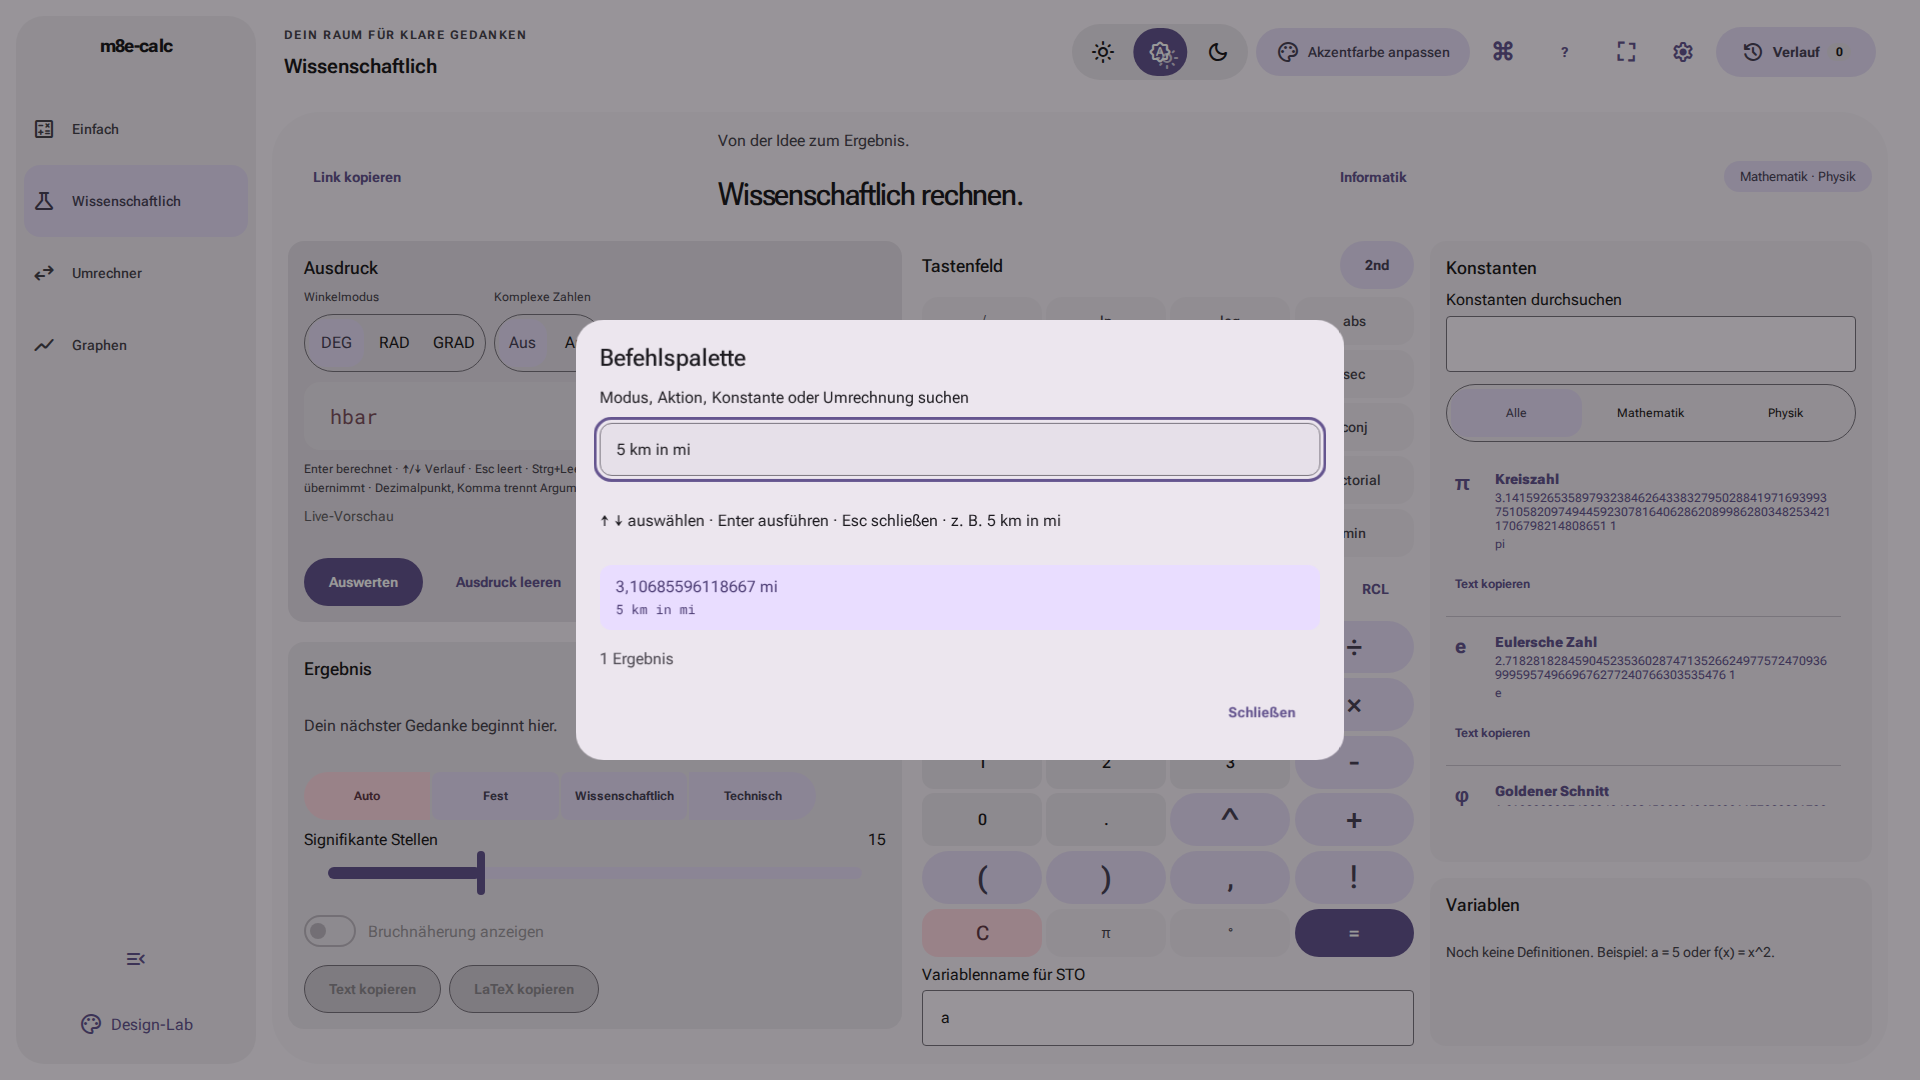
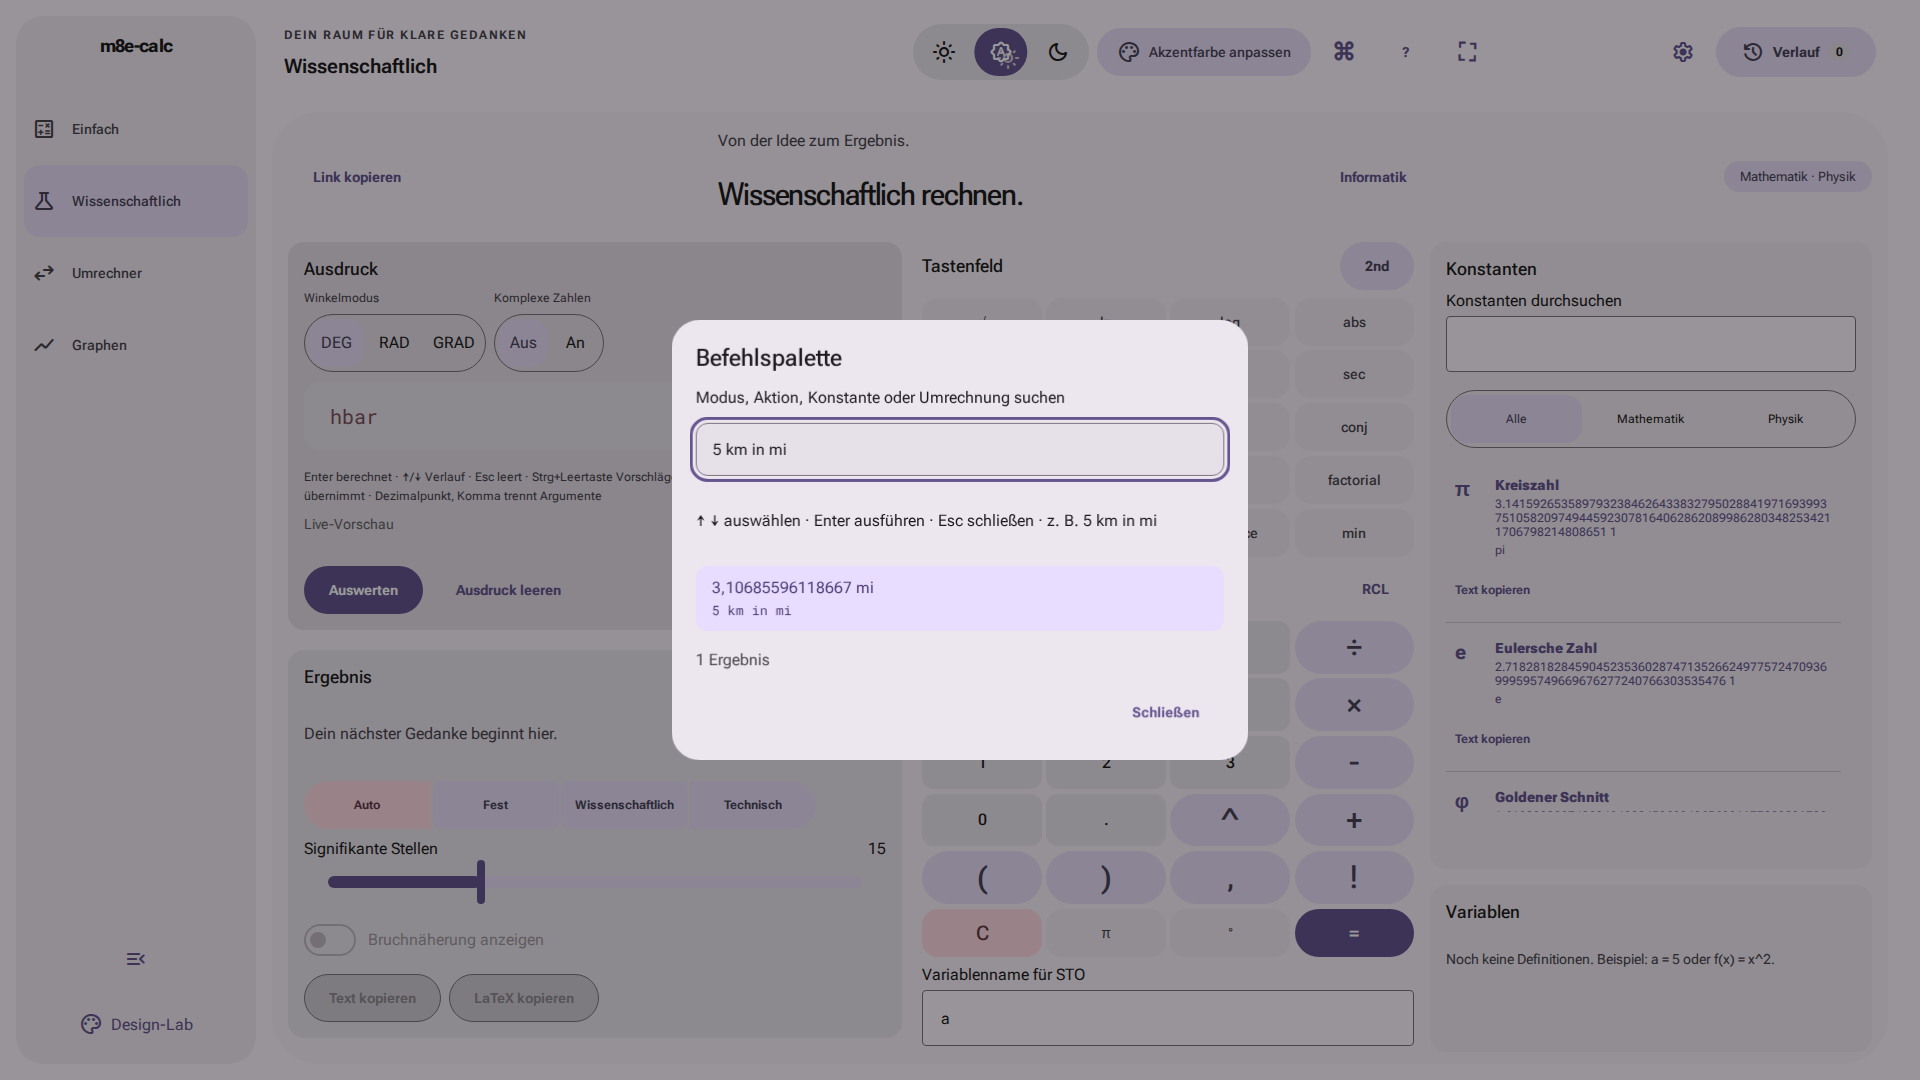
docs(release): refresh linked documentation images and record bot restrictions

diff --git a/docs/RELEASE.md b/docs/RELEASE.md
@@ -26,8 +26,7 @@ Ausgaben in `docs/img/`:
 
 Die Bilder vor dem Commit visuell prüfen. Sie sind Dokumentationsbilder;
 die unabhängigen visuellen QA-Referenzen unter `e2e/` werden nicht ersetzt.
-Historische AP-Screenshots unter `docs/screenshots/` bleiben Belege ihrer
-jeweiligen damaligen Prüfstände. Aktuelle Produktansichten stehen im README.
+Aktuelle Produktansichten stehen im README sowie den Architektur-/Modus-Dokumenten. Die verlinkten Komfortaufnahmen unter `docs/screenshots/` stammen aus Hardening-CI `38593558518` auf dem seither unveränderten Produktcode; unverlinkte ältere AP-Bilder bleiben historische Belege.
 Die CI erzeugt Release-Bilder als separates Artefakt zur Reproduktion.
 
 ## Vor Veröffentlichung
@@ -50,4 +49,4 @@ bereits erfolgte Veröffentlichung. AP16 bleibt bis zur Abnahme offen.
 
 `node scripts/check-release-docs.mjs` prüft lokale Markdown-Verweise und alle dokumentierten `npm run`-Befehle gegen package.json. Mit `--external` werden zusätzlich externe Markdown-Links per GET geprüft (30 s Timeout je URL, Redirect-Ziel im Log). Die Release-Assets-CI führt diese externe Prüfung aus. Ein HTTP-200 allein beweist nicht, dass ein weitergeleitetes Dokument noch denselben Inhalt hat; Quellenänderungen werden zusätzlich redaktionell geprüft.
 
-Beim Linkabgleich am 14.10.2026 wurden der verschobene NIST-Handbook-Link, die IAU-2015-PDF und die NASA-SP-367-Weiterleitung ersetzt. Die FDA-Quelle verweist jetzt auf den offiziellen HHS-Katalogeintrag, weil FDA den CI-Client auf eine Missbrauchserkennungsseite umleitete. Der ISO-2533-Katalogeintrag wurde unabhängig über die offizielle ISO-Seite bestätigt; dort erhält der CI-Client HTTP 403. Nur diese exakt dokumentierte URL/Status-Kombination ist im Prüfer als manuell verifiziert markiert, nicht als erfolgreicher HTTP-Test. Die Live-URL lieferte HTTP 200; das ersetzt keine vollständige manuelle Pages-Abnahme.
+Beim Linkabgleich am 14.10.2026 wurden der verschobene NIST-Handbook-Link, die IAU-2015-PDF und die NASA-SP-367-Weiterleitung ersetzt. Die FDA-Quelle verweist jetzt auf den offiziellen HHS-Katalogeintrag, weil FDA den CI-Client auf eine Missbrauchserkennungsseite umleitete. Der ISO-2533-Katalogeintrag wurde unabhängig über die offizielle ISO-Seite bestätigt; dort erhält der CI-Client HTTP 403. Auch der HHS-Katalogeintrag wurde unabhängig auf der offiziellen Seite bestätigt und beantwortet den CI-Client mit HTTP 403. Nur diese beiden exakt dokumentierten URL/Status-Kombinationen sind im Prüfer als manuell verifiziert markiert, nicht als erfolgreiche HTTP-Tests. Die Live-URL lieferte HTTP 200; das ersetzt keine vollständige manuelle Pages-Abnahme.

diff --git a/docs/ARCHITECTURE.md b/docs/ARCHITECTURE.md
@@ -72,7 +72,7 @@ Wöchentliche Dependabot-Updates werden getrennt für npm und GitHub Actions gru
 
 ## AP4-Verifikation
 
-Die Shell-Browserprüfungen warten auf den aktiven Modus, vollständige Opacity und die Zielbreite des angedockten Panels. Neben Dokument- und Container-Überläufen werden Panel-Grenzen im Viewport geprüft. Reproduzierbare Referenzaufnahmen: [Full HD](screenshots/app-shell-1920.png), [QHD](screenshots/app-shell-2560.png), [4K](screenshots/app-shell-3840.png) und [Ultrawide](screenshots/app-shell-3440.png). `e2e/app-shell.spec.ts` erzeugt sie erneut; CI bewahrt zusätzliche Browser-/Galerie-Artefakte auf.
+Die Shell-Browserprüfungen warten auf den aktiven Modus, vollständige Opacity und die Zielbreite des angedockten Panels. Neben Dokument- und Container-Überläufen werden Panel-Grenzen im Viewport geprüft. Aktuelle Shell-/Modusansichten bei 2560×1440: [Hell](img/simple-light.png) und [Dunkel](img/simple-dark.png), reproduzierbar mit `npm run screenshots`. `e2e/app-shell.spec.ts` prüft zusätzlich Full HD, 4K und Ultrawide; CI bewahrt die jeweiligen Browser-/Galerie-Artefakte auf.
 
 Die axe-Prüfung des Einstellungsdialogs wartet auf das Ende seiner Einblendung
 (`data-entering` entfernt) und prüft anschließend den vollständigen Textkontrast.
@@ -106,10 +106,8 @@ Verlauf unverändert. Tastaturbefehle ruhen in Formularen, Overlays und inerten
 Modusflächen. Browserprüfungen erzeugen vier Ansichten in `test-results`:
 1920×1080 und 3840×2160, jeweils Hell/Dunkel.
 
-Geprüfte Referenzaufnahmen: [Full HD Hell](screenshots/simple-light-1920.png),
-[Full HD Dunkel](screenshots/simple-dark-1920.png),
-[4K Hell](screenshots/simple-light-3840.png) und
-[4K Dunkel](screenshots/simple-dark-3840.png). Der AP6-Reducer hat 102 Unit-Fälle;
+Aktuelle Referenzaufnahmen bei 2560×1440: [Hell](img/simple-light.png) und
+[Dunkel](img/simple-dark.png), erzeugt mit `npm run screenshots`. Der AP6-Reducer hat 102 Unit-Fälle;
 die Gesamtprüfung umfasst 800 Unit-/Komponententests und 44 Chromium-E2E.
 
 ## AP8 · Wissenschaftlicher Modus

diff --git a/docs/COMFORT.md b/docs/COMFORT.md
@@ -110,7 +110,7 @@ Unit: Fuzzy-Suche, Query-Auswertung, Kürzelkonflikte/Input-Scope, Settings-Migr
 Permalink-Roundtrips, Unicode-Kompression und Fuzzing. E2E: Palette/Fokus/ARIA/axe,
 Roundtrip jedes Modus, ungültige Links, Skalierung/Präsentation und vier Modi mit
 Playwright-Offline-Emulation nach ausschließlich dem ersten Einfach-Laden.
-Screenshots: [Palette](screenshots/comfort-palette.png), [Präsentation](screenshots/comfort-presentation.png); E2E erzeugt sie erneut im CI-Artefakt.
+Aktualisierte Aufnahmen aus Hardening-CI `38593558518` (Produktcode seit diesem Lauf unverändert): [Palette](screenshots/comfort-palette.png), [Präsentation](screenshots/comfort-presentation.png); E2E erzeugt sie erneut im CI-Artefakt.
 Weitere Browser und physische Betriebssystem-Installation bleiben AP15-Abnahme.
 
 Stand der vollständigen Verifikation: 1.978 Unit-/Komponententests und 81

diff --git a/docs/CONVERT_MODE.md b/docs/CONVERT_MODE.md
@@ -65,9 +65,9 @@ Playwright prüft Konvertierung, native Zwischenablage, Tastatur, Query,
 Einheitensuche, Verlauf/Restore/Persistenz, Reduced Motion und Axe.
 `e2e/convert.spec.ts` schreibt Screenshots bei 1920×1080 und 3840×2160 nach
 `test-results/`; der bestehende CI-Workflow veröffentlicht sie im Artefakt
-`playwright-results`. Visuell geprüfte Referenzbilder stehen in
-[Full HD](screenshots/convert-1920x1080.png) und
-[4K](screenshots/convert-3840x2160.png).
+`playwright-results`. Aktuelle, visuell geprüfte Release-Bilder bei 2560×1440 stehen in
+[Hell](img/convert-light.png) und [Dunkel](img/convert-dark.png);
+`npm run screenshots` erzeugt sie erneut.
 
 ## Offen / Folge-Issues
 
